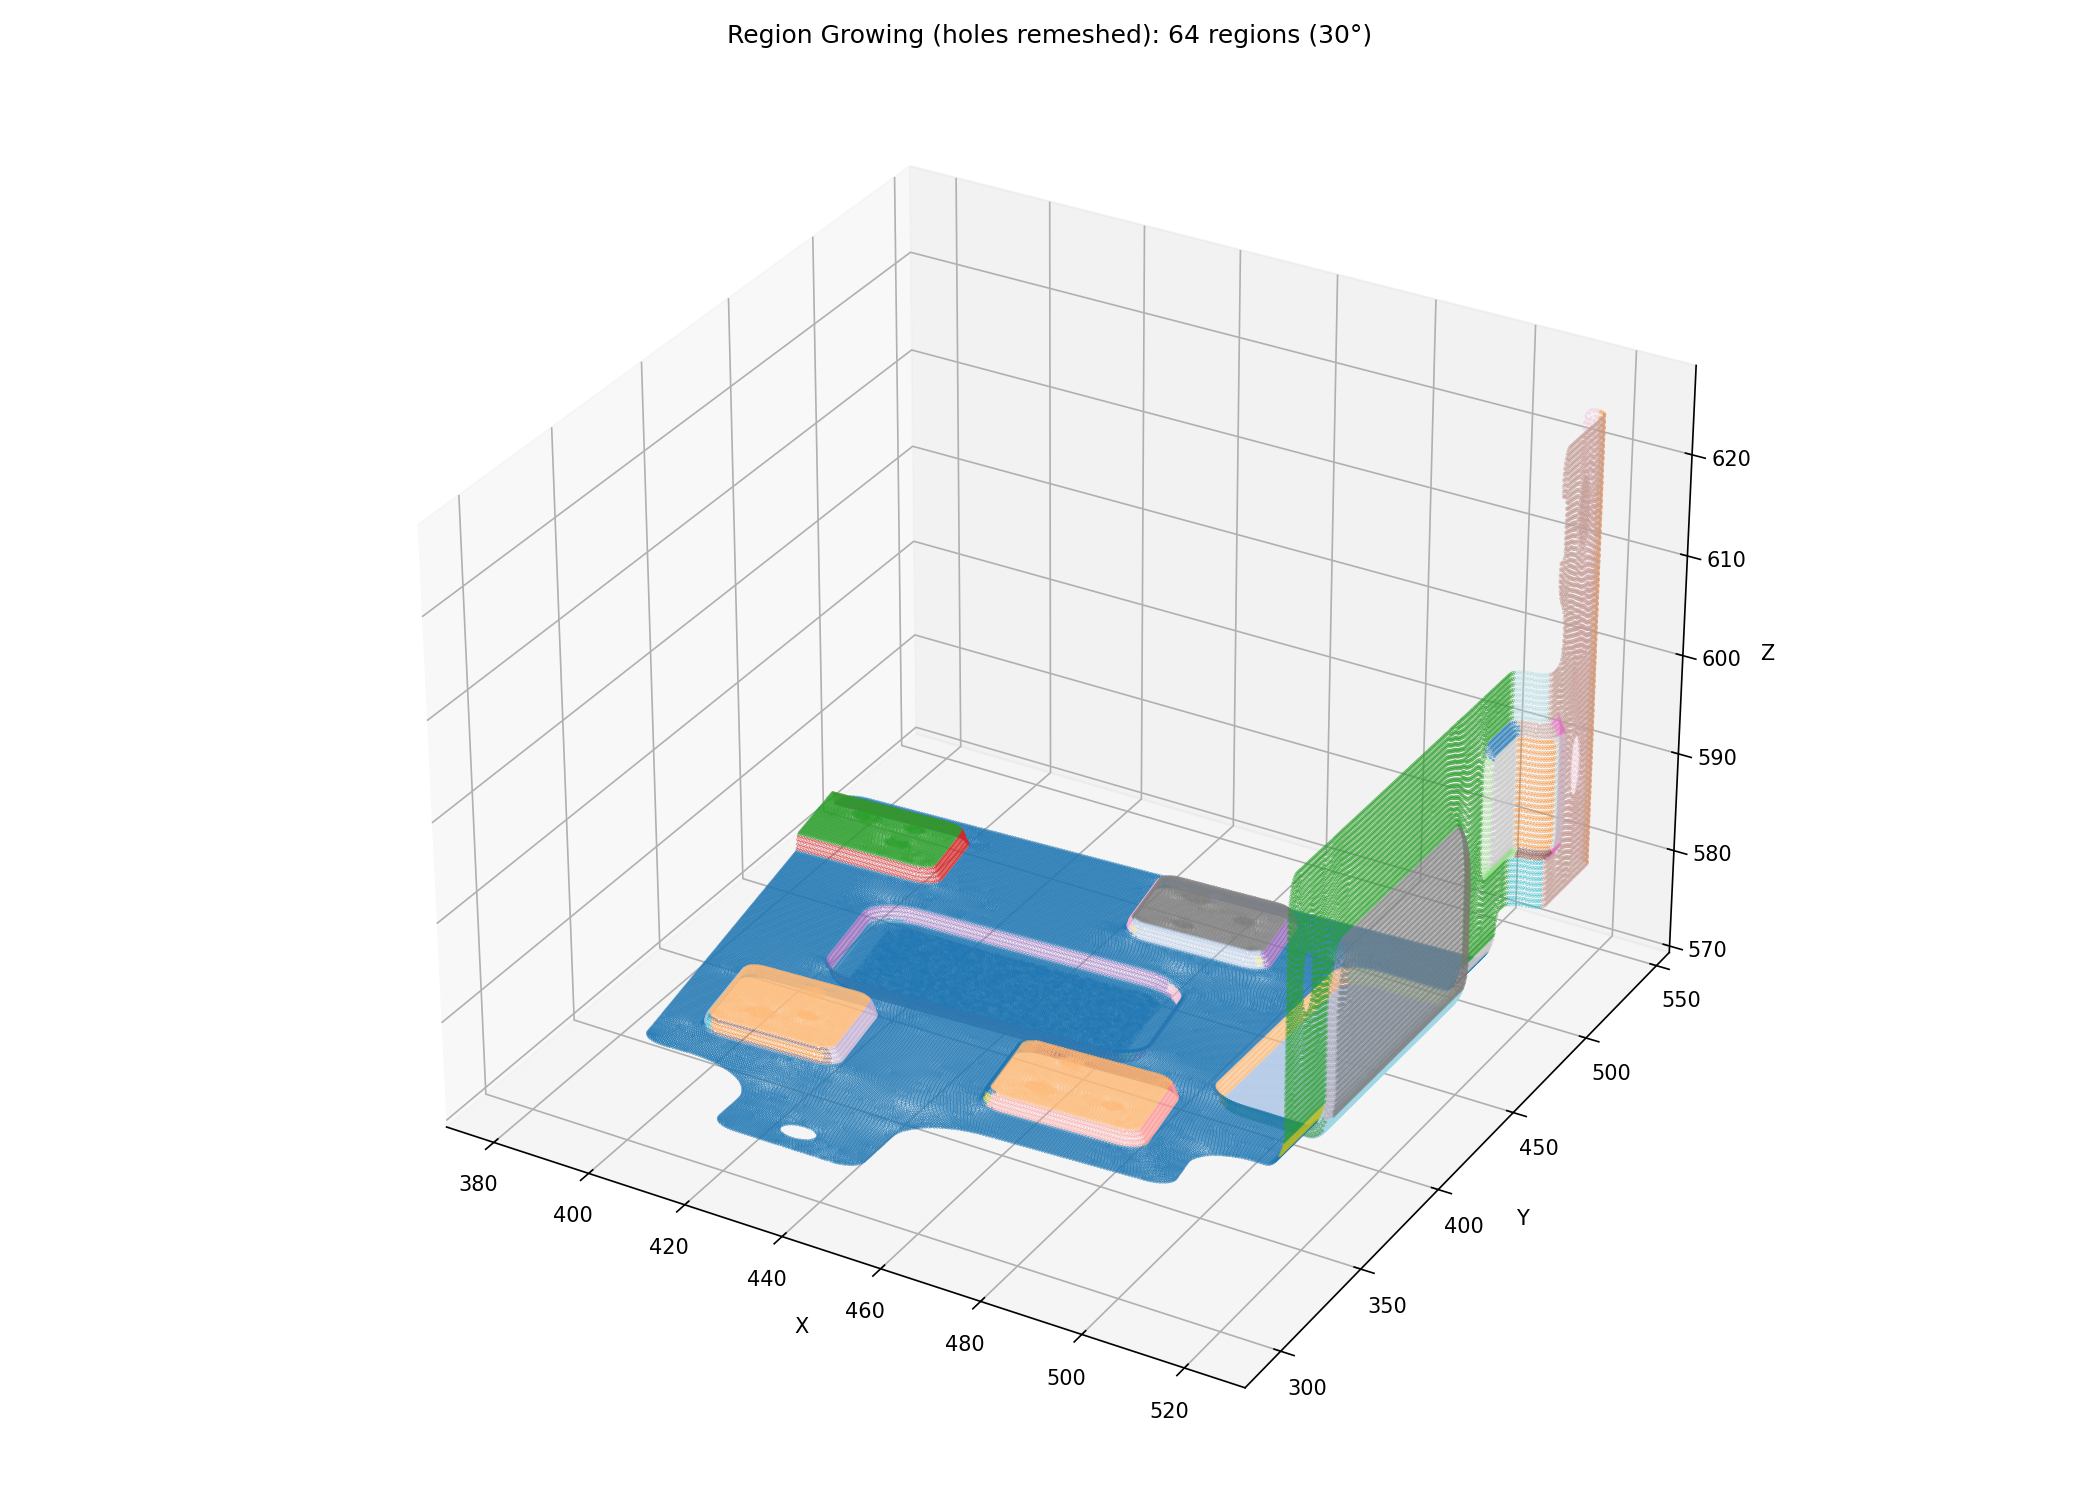
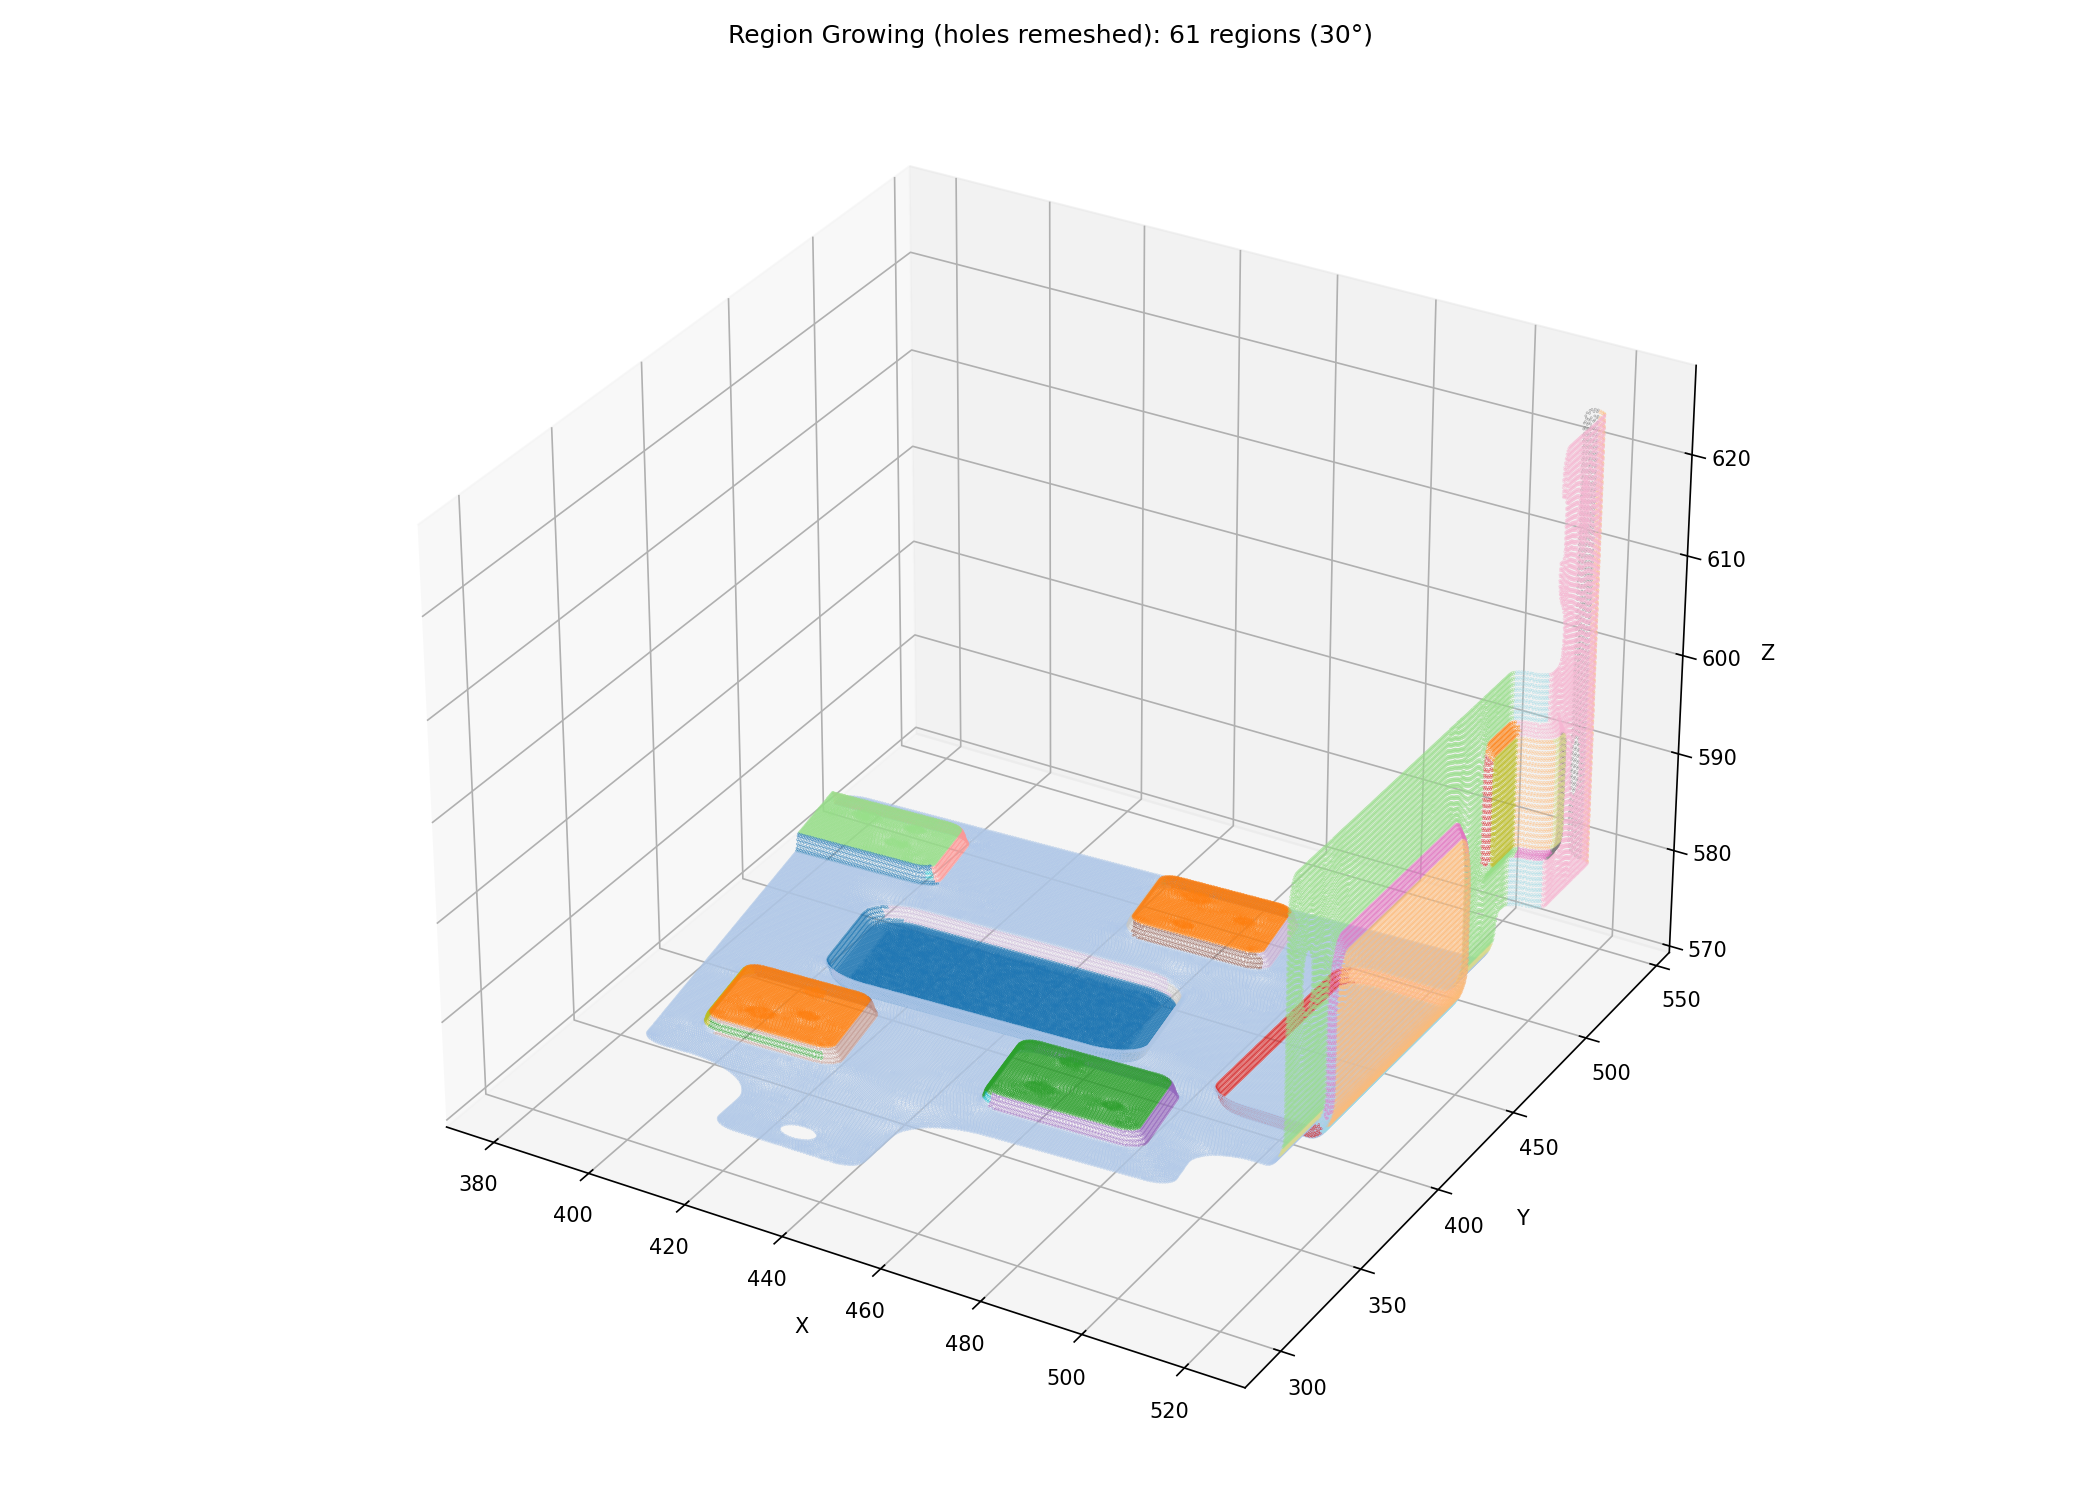
MOBIS_GEN full pipeline results with 7 viz (2026-04-22 01:13 KST)

Changed region(s): [[0.3095, 0.276, 0.7738, 0.7973], [0.3405, 0.0, 0.65, 0.0307]]

diff --git a/README.md b/README.md
@@ -4,7 +4,7 @@ This repo is used to share result images from Claude Code.
 
 **Timezone: KST (UTC+9)** — Server time is 9 hours behind KST.
 
-## MOBIS_GEN to_baseline results (2026-04-22 00:42 KST)
+## MOBIS_GEN to_baseline full pipeline (2026-04-22 01:13 KST)
 
 ### 1. Point Cloud
 ![pointcloud](pointcloud.png)
@@ -15,5 +15,14 @@ This repo is used to share result images from Claude Code.
 ### 3. Region Growing (holes remeshed with Delaunay)
 ![regions_fixed](regions_fixed.png)
 
-### 4. Flatten Result (Original / Flat / Bend)
+### 4. Main vs Bump Regions
+![main_bump](main_bump.png)
+
+### 5. Flat vs Bend Blobs
+![flat_bend](flat_bend.png)
+
+### 6. Flatten Result (Original / Flat / Bend)
 ![flatten_result](flatten_result.png)
+
+### 7. Translation Heatmap
+![translation_heatmap](translation_heatmap.png)
